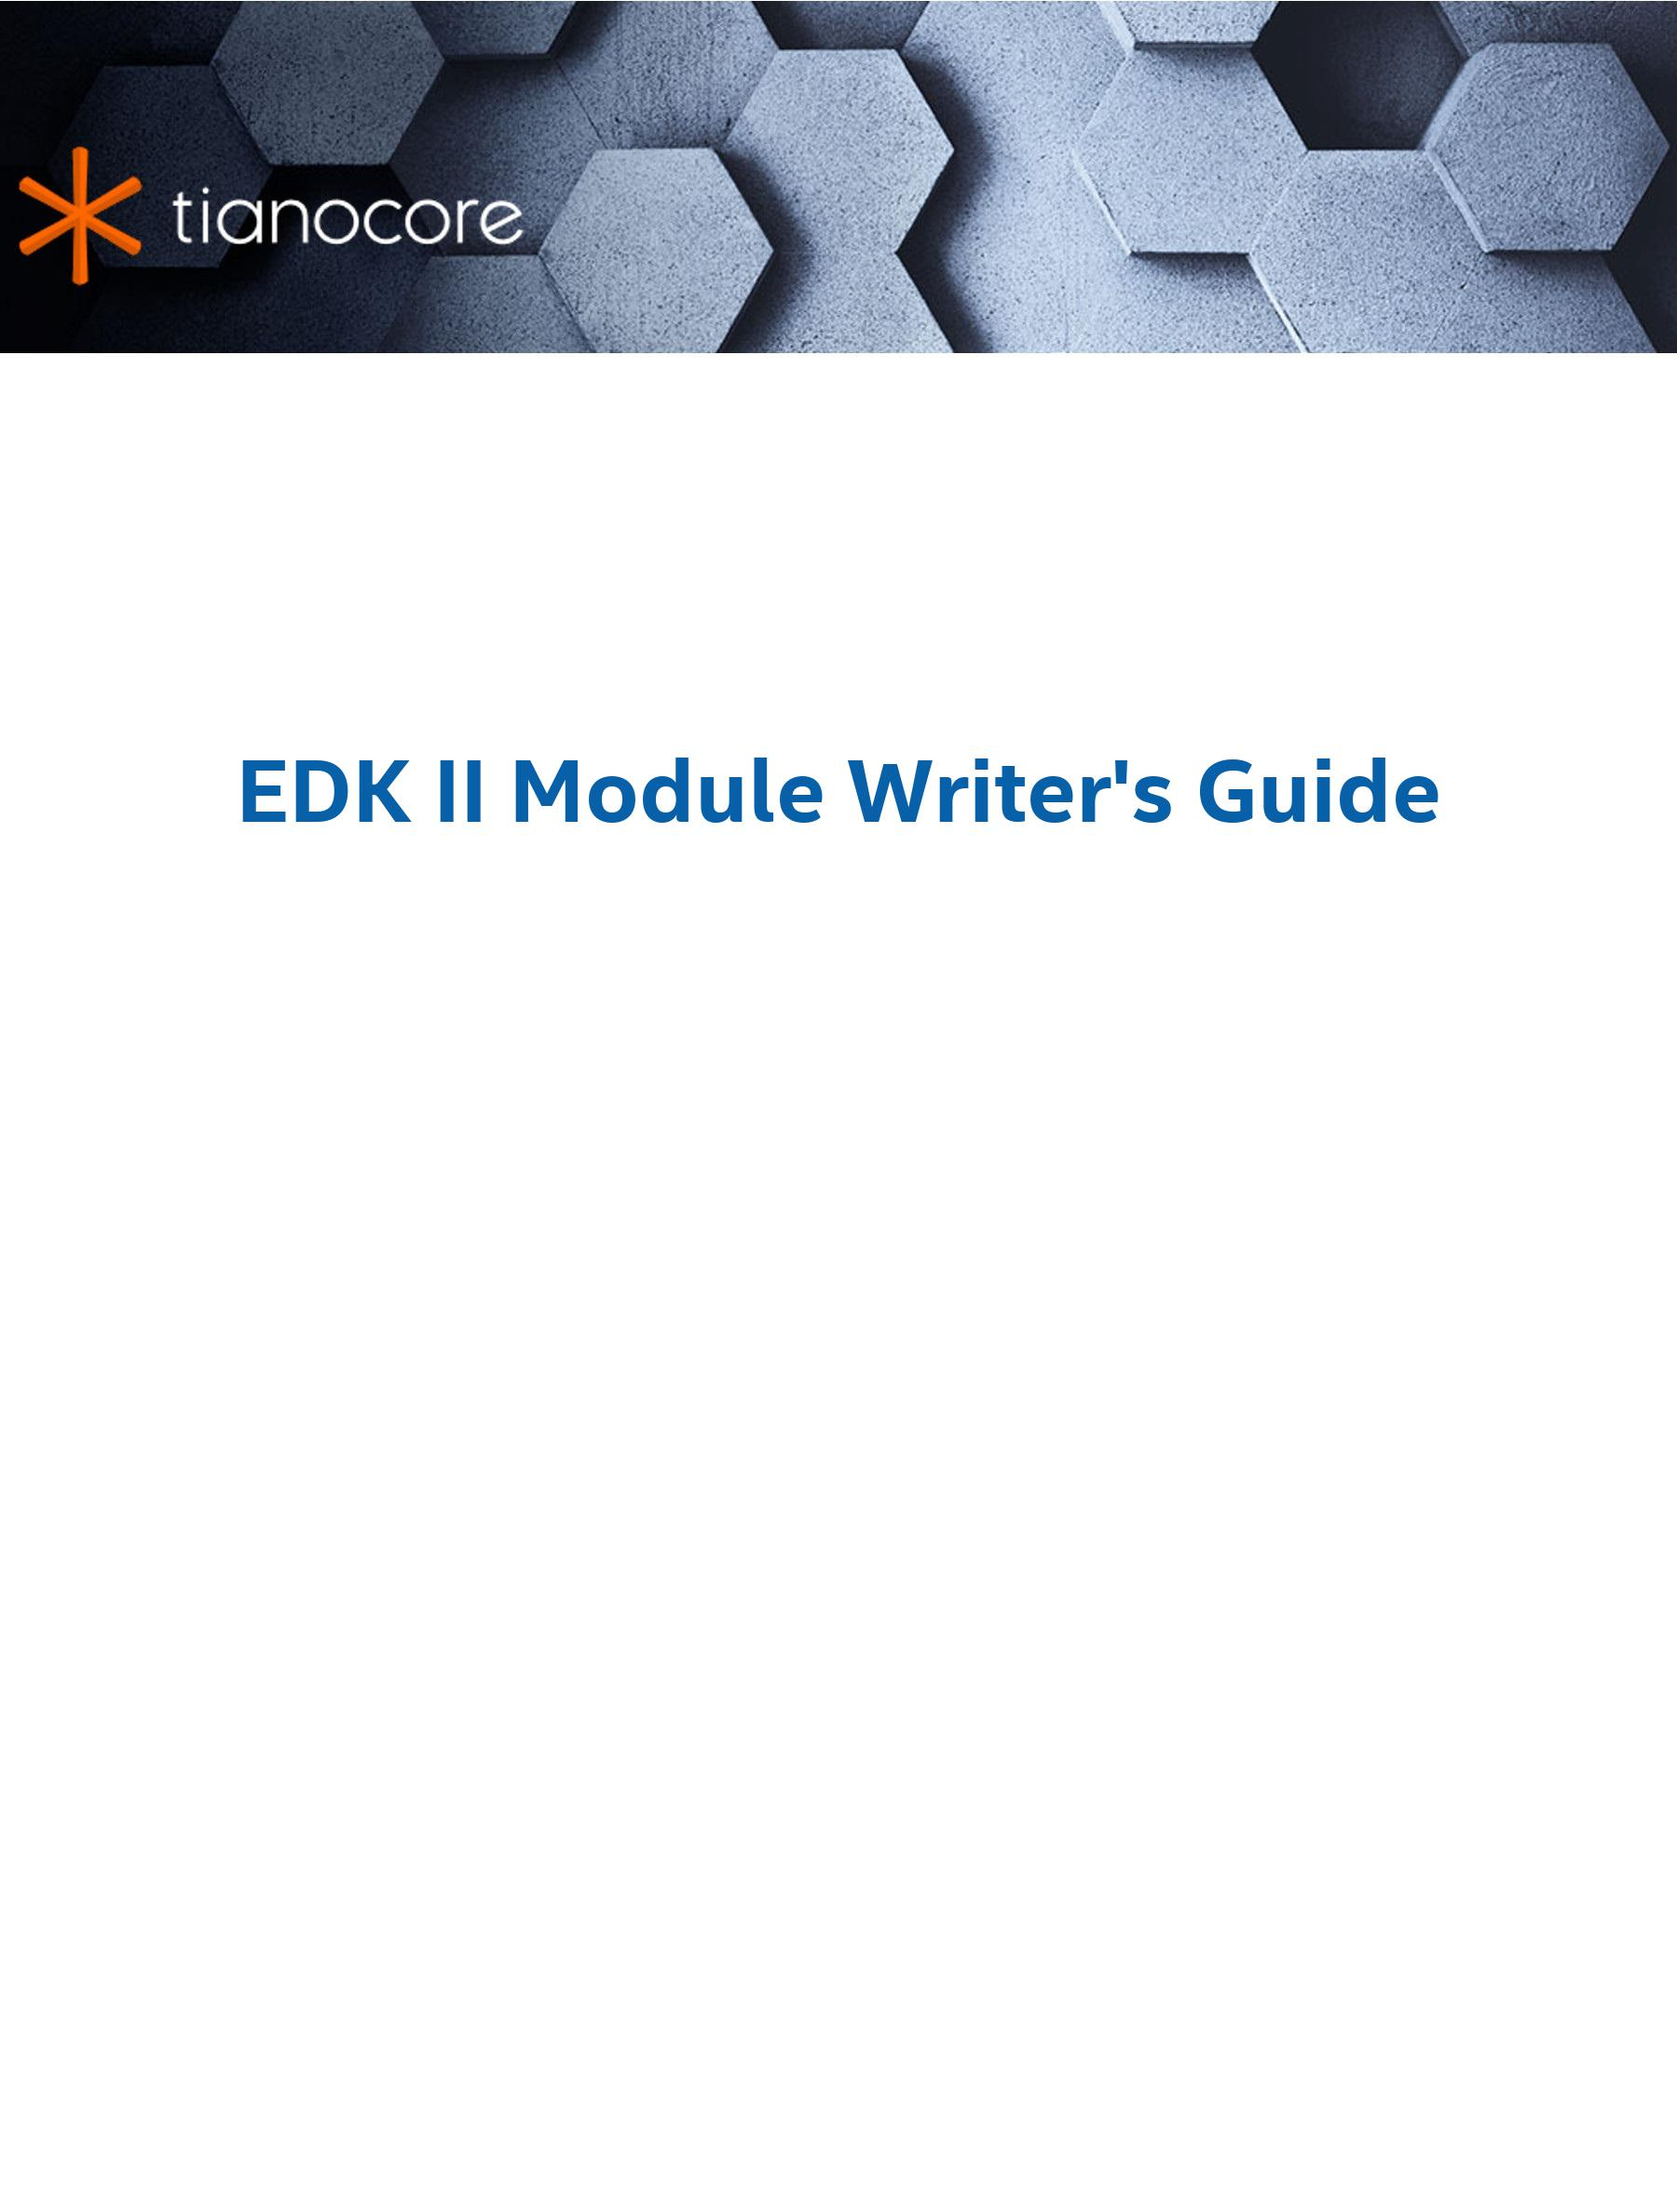
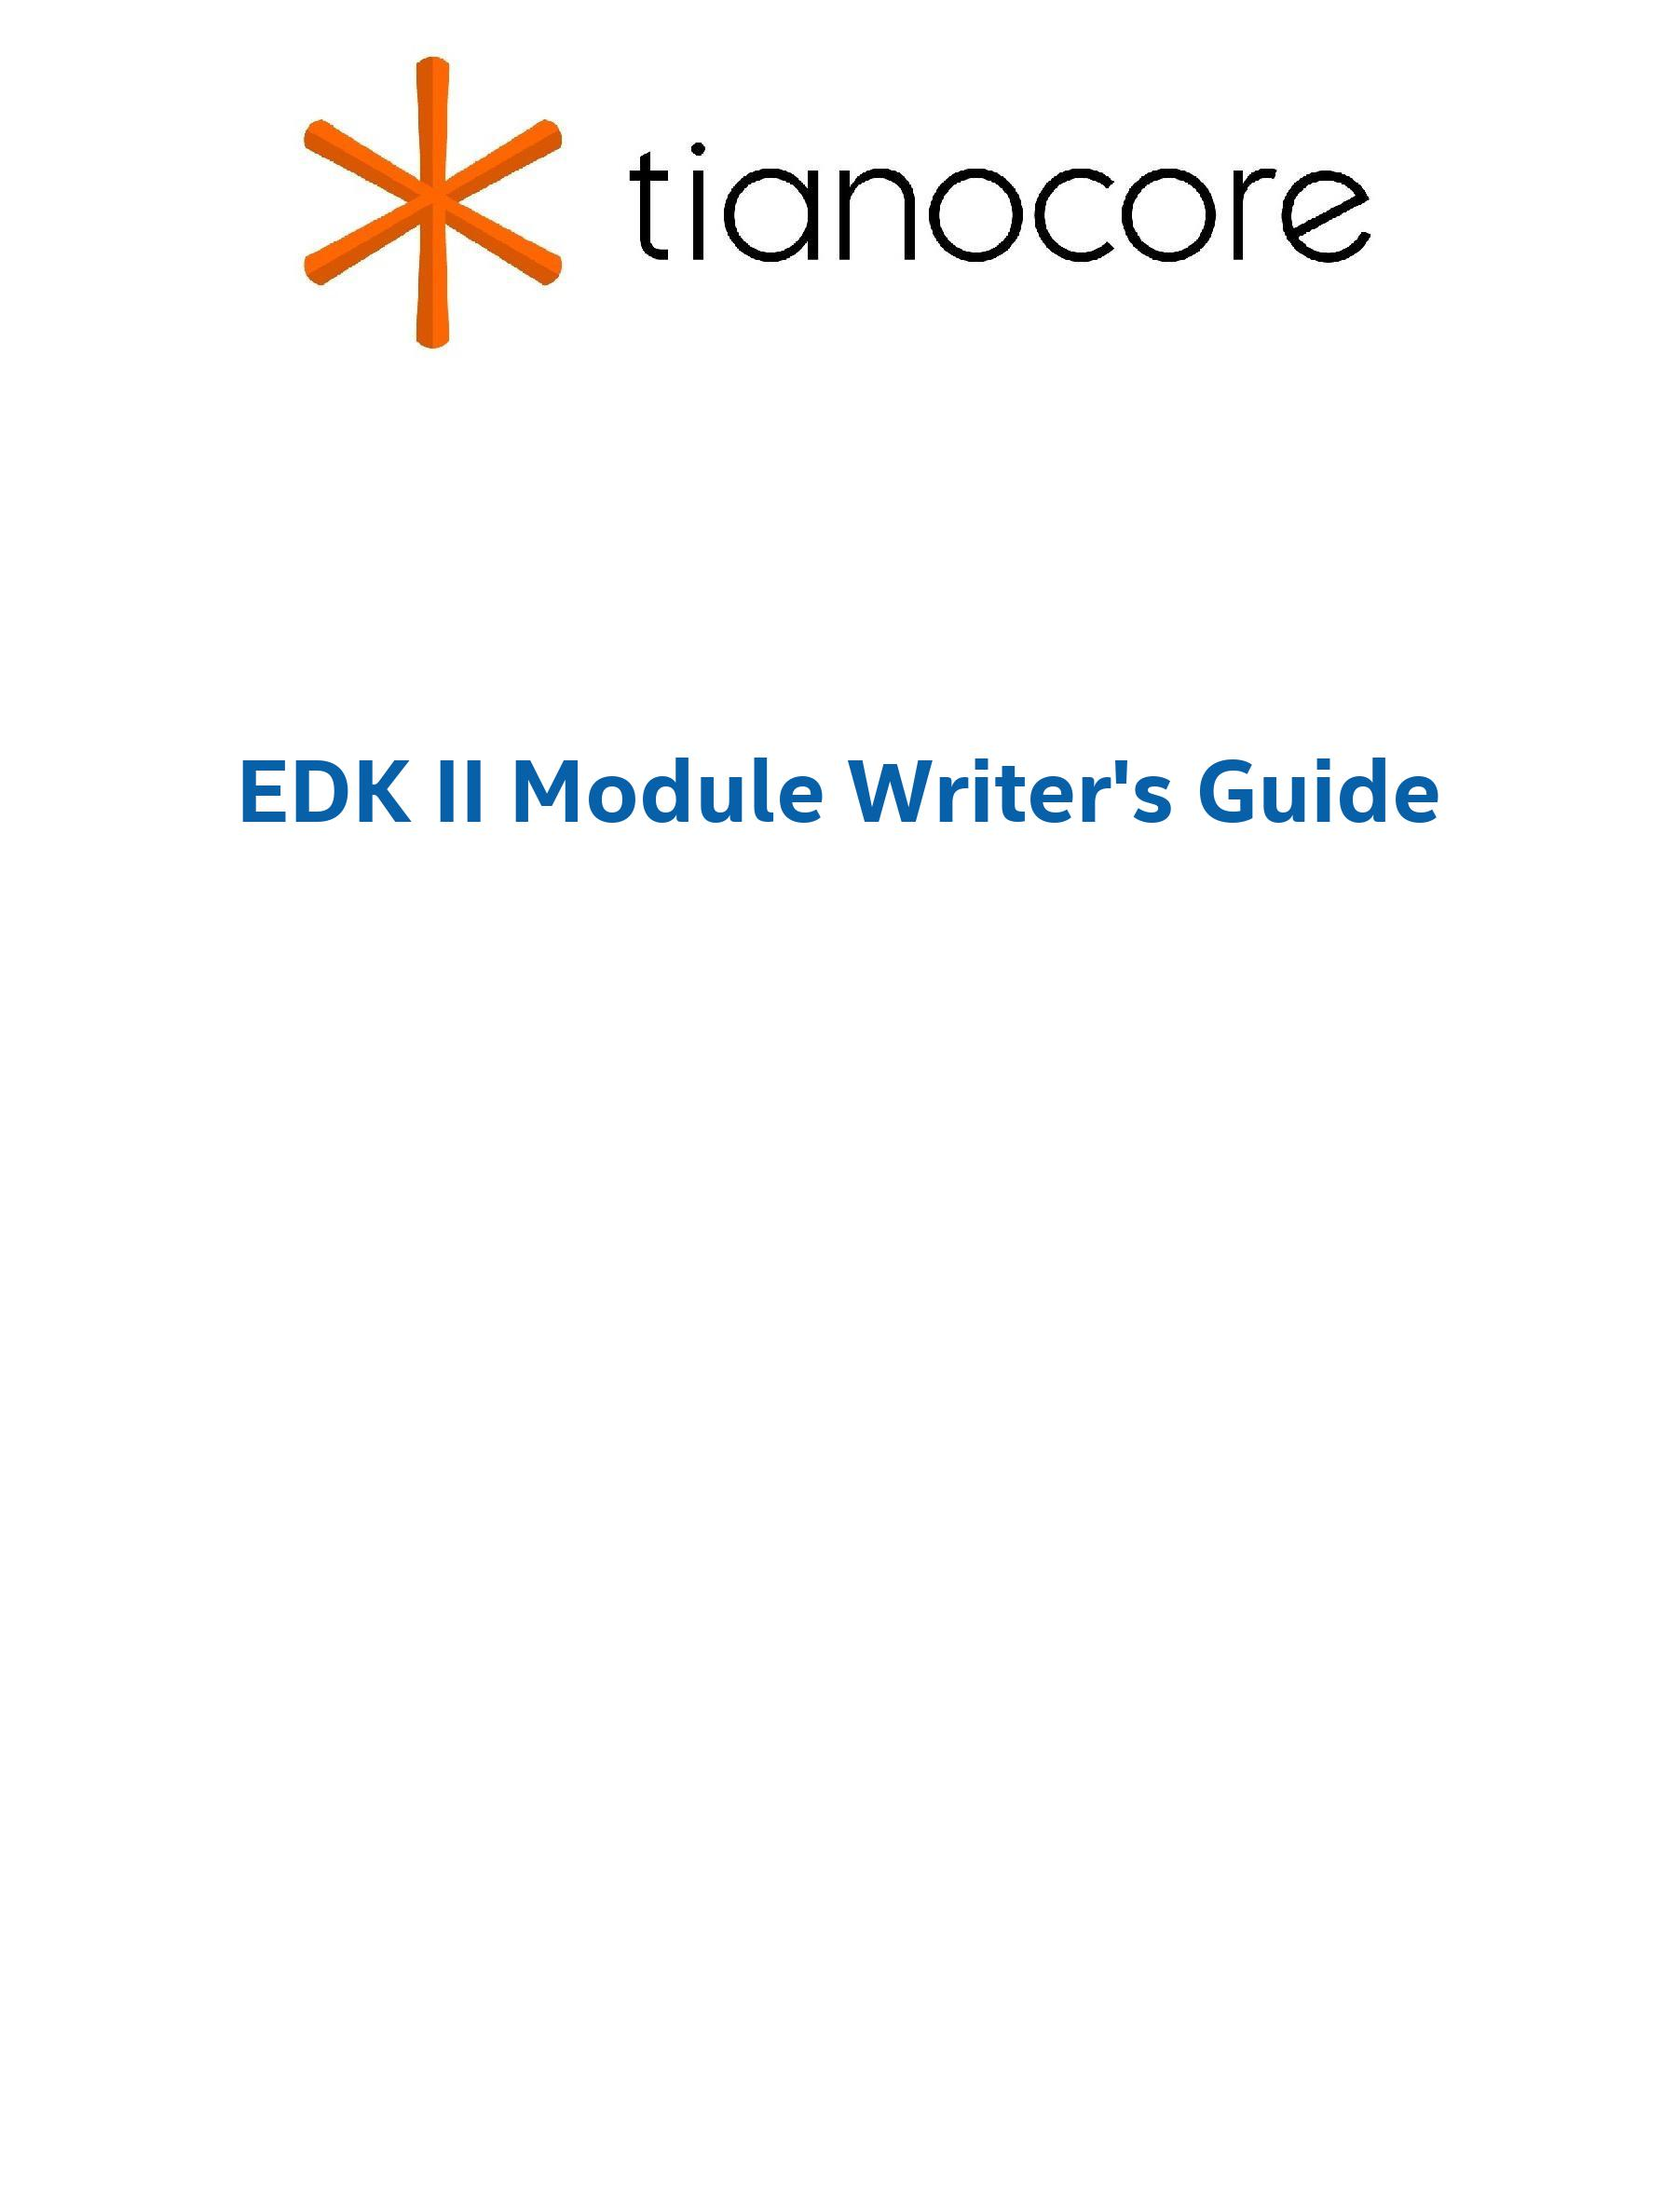
EDKII ModuleWriteGuide: Update to 0.71 for GitBook conversion
* Add GitBook conversion to Revision History
* Remove fiont size 22 from book.json
* Update color of h5 in all CSS files
* Update color.jpg with correct TianoCore logo

Contributed-under: TianoCore Contribution Agreement 1.1

Changed region(s): [[0.0, 0.0, 1.0, 0.1856]]

diff --git a/styles/mobi.css b/styles/mobi.css
@@ -24,6 +24,7 @@ h4 {
 }
 
 h5 {
+    color: #0860A8;
     font-weight: bold;
     font-size: 130%;
 }

diff --git a/styles/epub.css b/styles/epub.css
@@ -22,6 +22,7 @@ h4 {
 }
 
 h5 {
+    color: #0860A8;
     font-weight: bold;
     font-size: 90%;
 }

diff --git a/styles/pdf.css b/styles/pdf.css
@@ -22,6 +22,7 @@ h4 {
 }
 
 h5 {
+    color: #0860A8;
     font-weight: bold;
     font-size: 90%;
 }

diff --git a/styles/website.css b/styles/website.css
@@ -22,6 +22,7 @@ h4 {
 }
 
 h5 {
+    color: #0860A8;
     font-weight: bold;
     font-size: 90%;
 }

diff --git a/README.md b/README.md
@@ -46,7 +46,7 @@
 {% endif %}
 
 
-### Acknowledgements
+### Acknowledgments
 
 Redistribution and use in source (original document form) and 'compiled'
 forms (converted to PDF, epub, HTML and other formats) with or without
@@ -85,4 +85,4 @@ Copyright (c) 2009 - 2010, Intel Corporation. All rights reserved.
 |                   | PI_SPECIFICATION_VERSION/UEFI_SPECIFICATION_VERSI ON in module's INF |                 |
 |                   | Add UEFI_HII_RESOURCE_SECTION usage in INF's [Defines] section       |                 |
 |                   | Add a limitation of dynamic PCD usage                                |                 |
-
+| 0.71              | Convert to GitBook                                                   | September 2018  |
